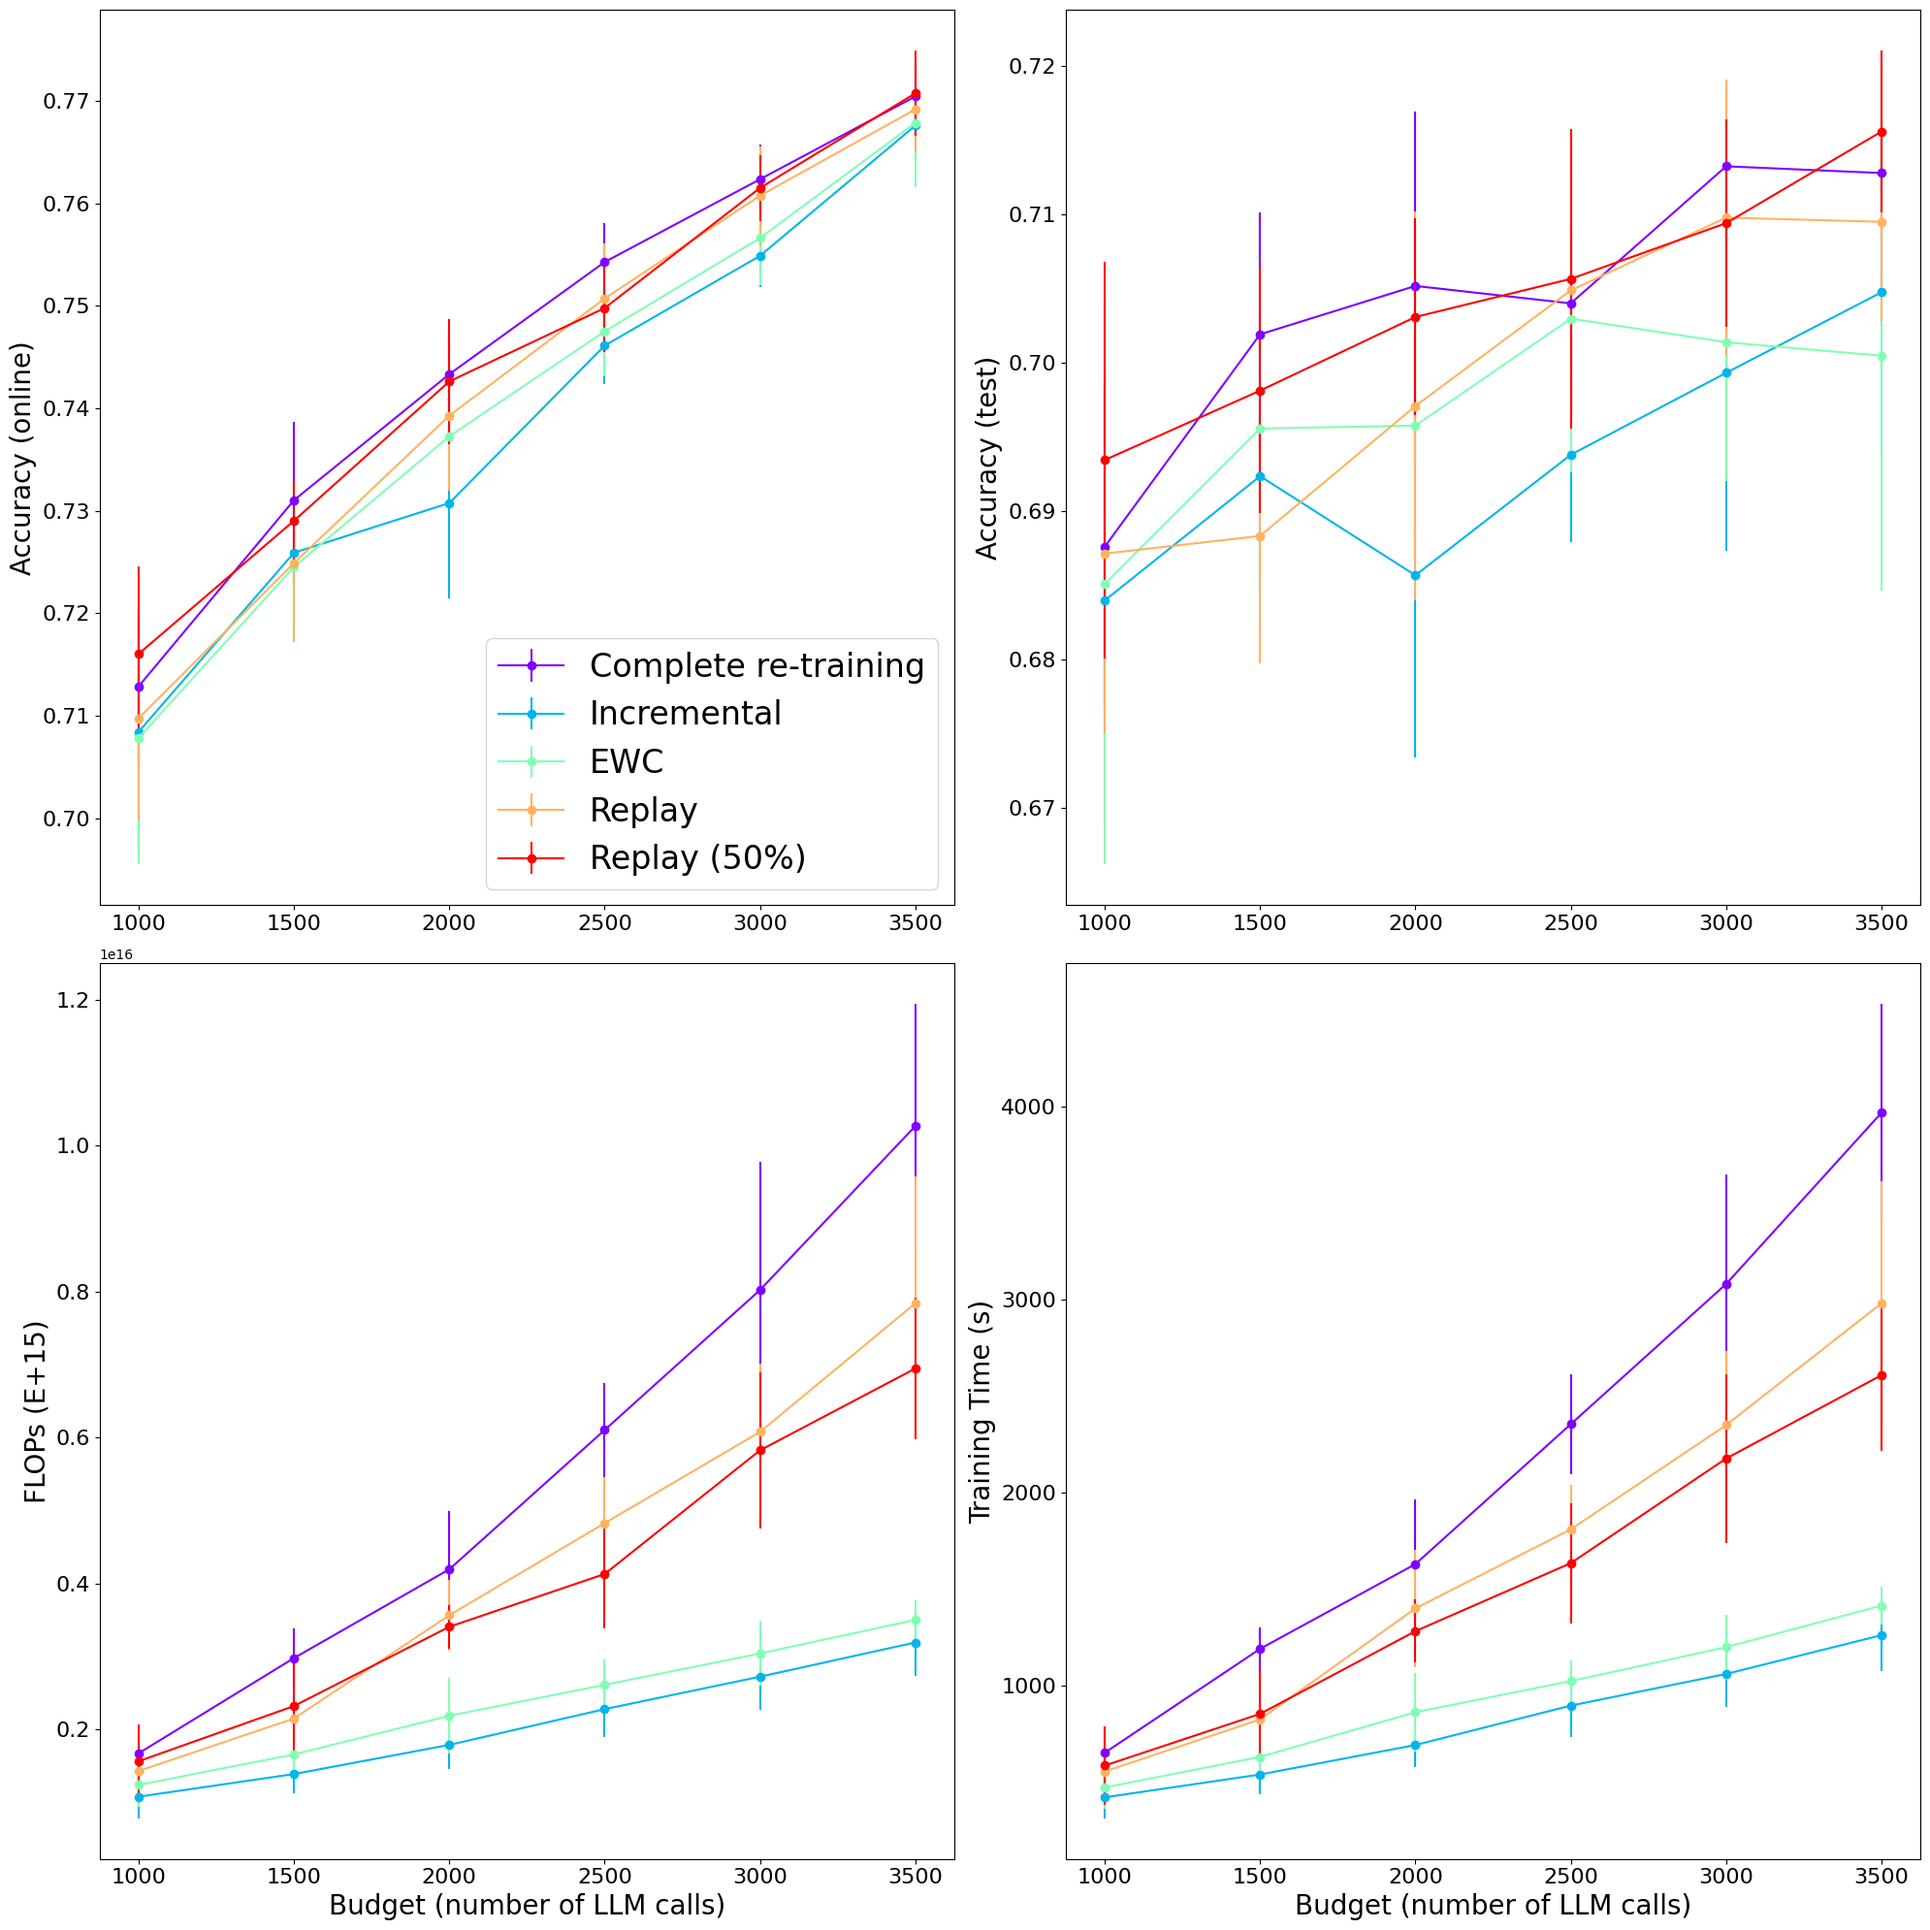
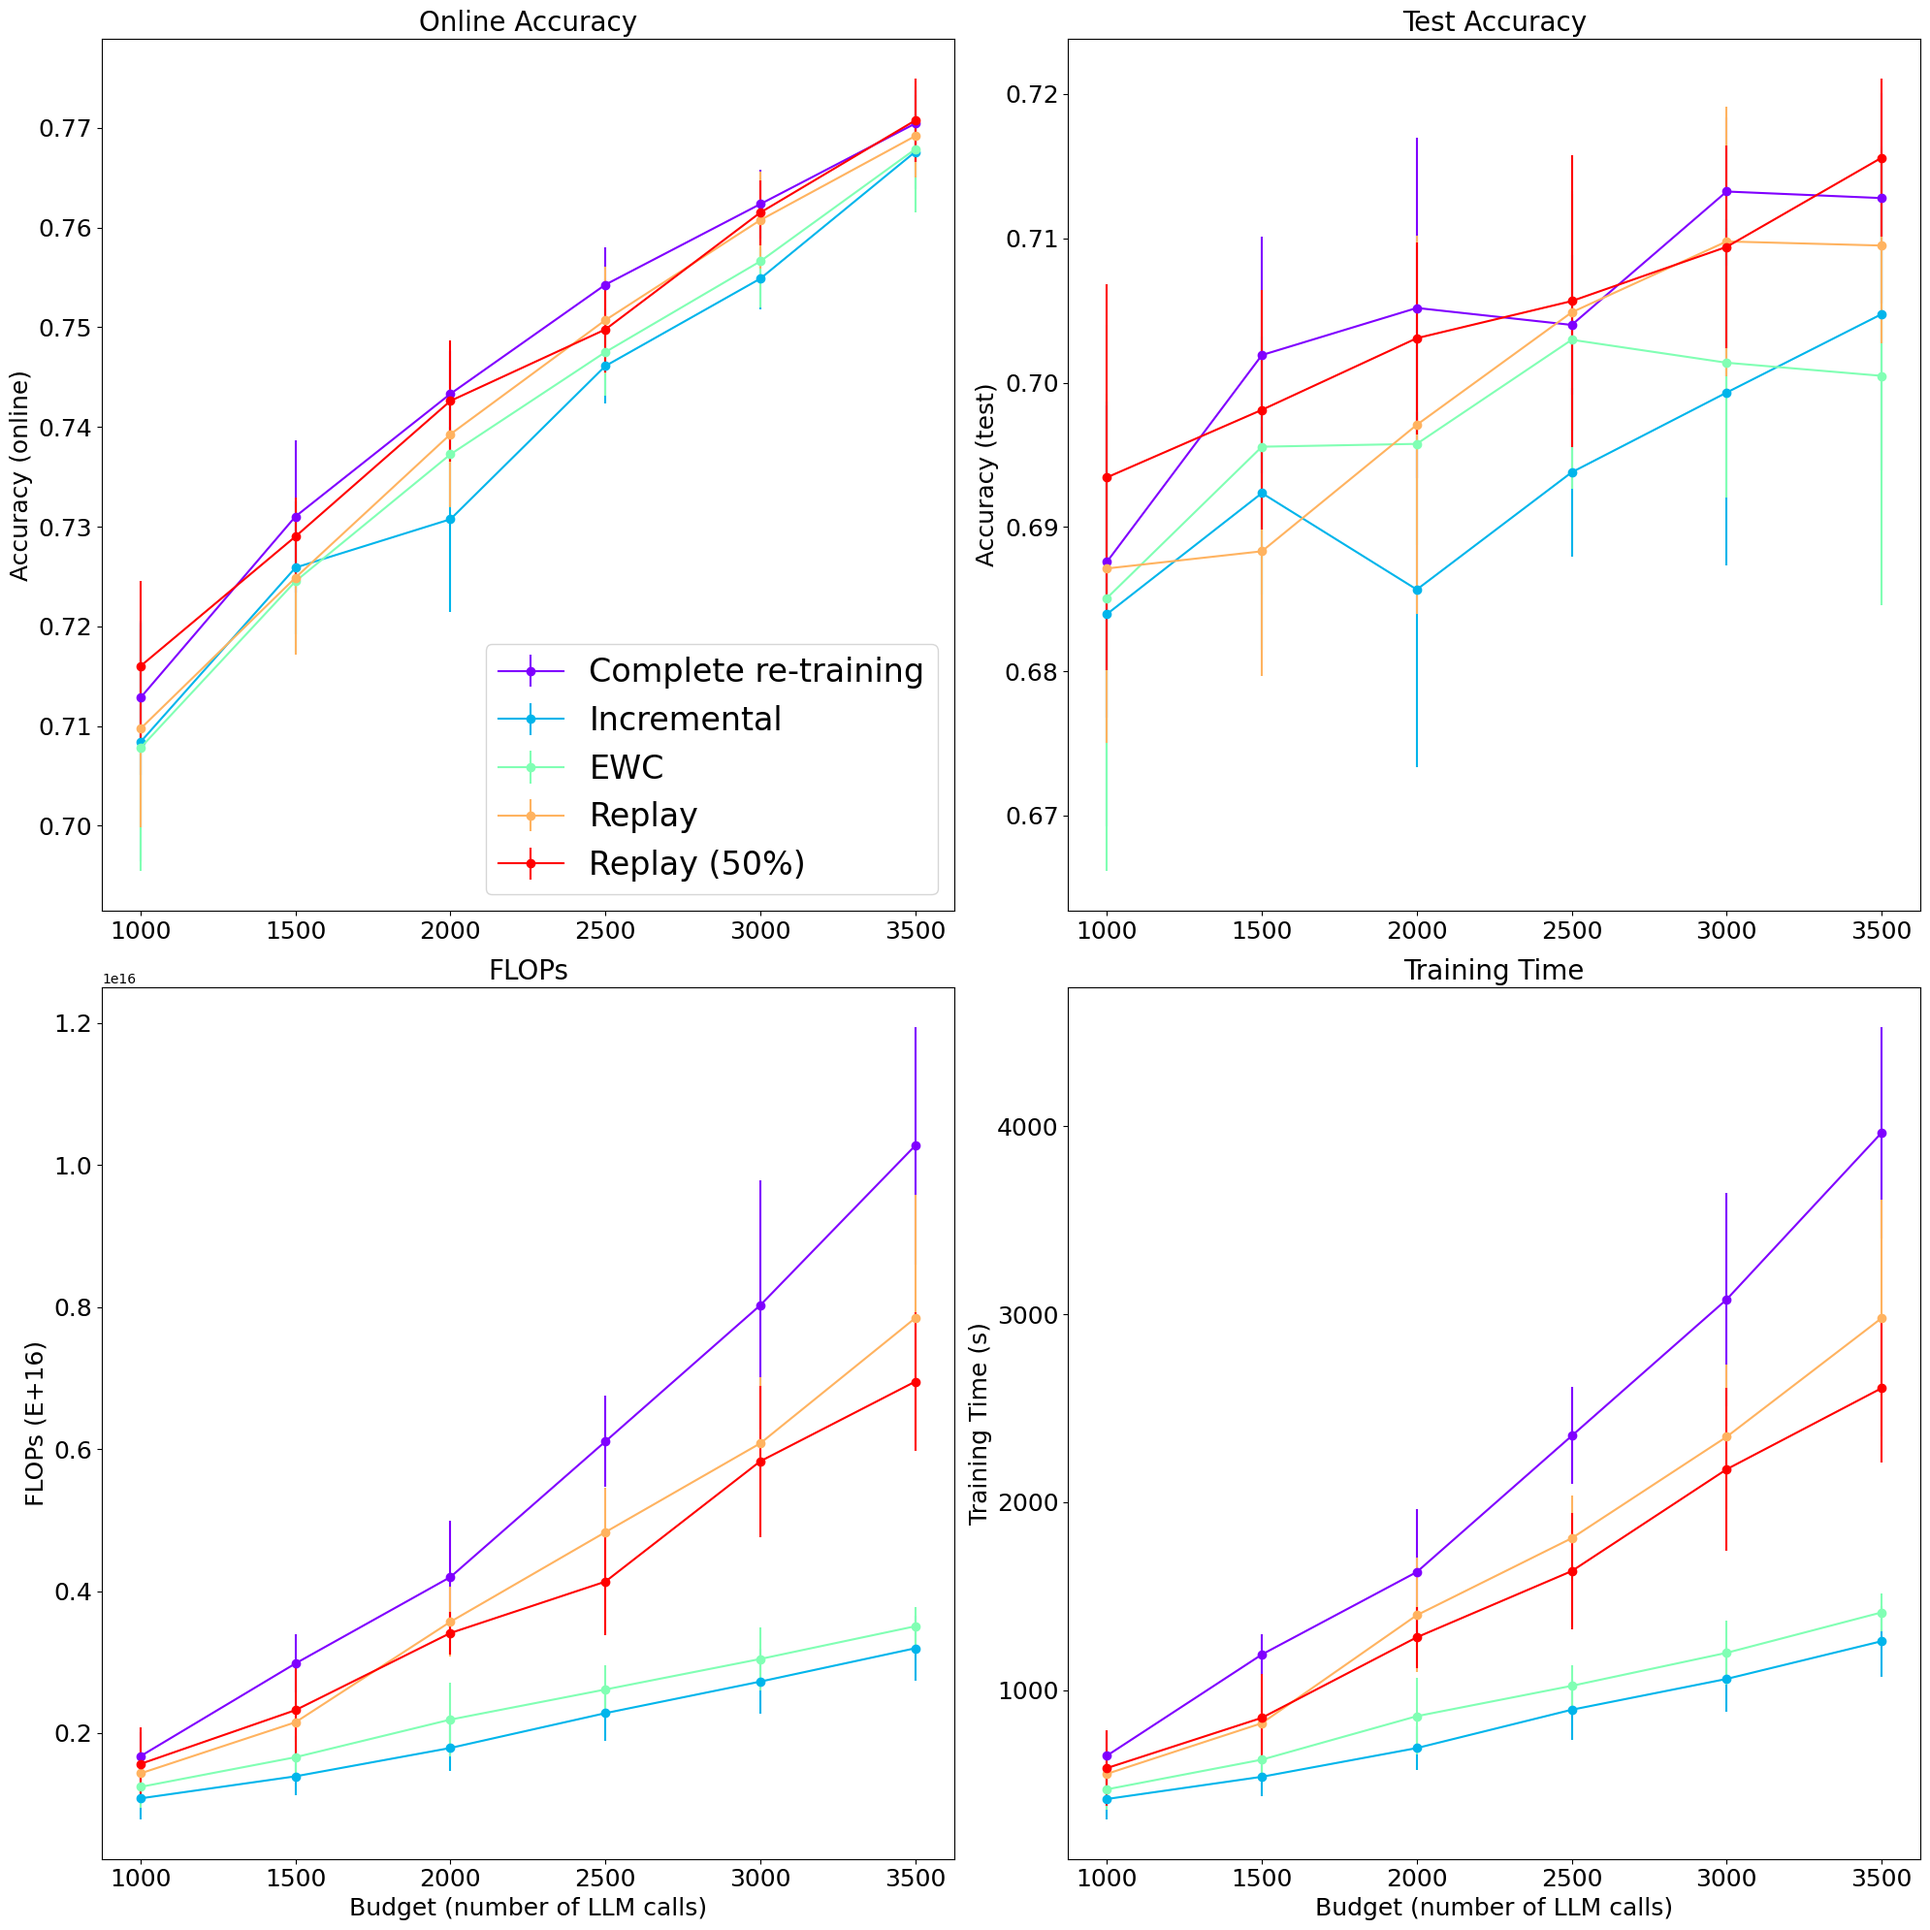
updated plots

diff --git a/results/scripts/analyse_complete.py b/results/scripts/analyse_complete.py
@@ -85,17 +85,16 @@ for condition_name, condition in conditions.items():
             'total_time_std': time_std
         }
 
+metrics = ['online', 'test', 'total_flops', 'total_time']
+y_labels = ['Accuracy (online)', 'Accuracy (test)', 'FLOPs (E+16)', 'Training Time (s)']
+titles = ['Online Accuracy', 'Test Accuracy', 'FLOPs', 'Training Time']
+
 # Function to create individual strategy plots
 def create_strategy_plot(strategy):
     fig, axs = plt.subplots(2, 2, figsize=(20, 20))
     colors = plt.cm.rainbow(np.linspace(0, 1, len(conditions)))
     
-    for i, (plot_metric, title) in enumerate([
-        ('online', f'Accuracy (online)'),
-        ('test', f'Accuracy (test)'),
-        ('total_flops', f'FLOPs (E+15)'),
-        ('total_time', f'Training Time (s)')
-    ]):
+    for i, (plot_metric, y_label, title) in enumerate(zip(metrics, y_labels, titles)):
         ax = axs[i // 2, i % 2]
         for j, condition_name in enumerate(conditions):
             data = aggregated_data[condition_name][strategy]
@@ -103,13 +102,13 @@ def create_strategy_plot(strategy):
                         yerr=data[f'{plot_metric}_std'], 
                         fmt='-o', capsize=0, label=condition_name, color=colors[j])
         
-        # ax.set_title(f"{title}", fontsize=16)
+        ax.set_title(f"{title}", fontsize=20)
         if i>=2:
-            ax.set_xlabel('Budget (number of LLM calls)', fontsize=20)
-        ax.set_ylabel(title, fontsize=20)
+            ax.set_xlabel('Budget (number of LLM calls)', fontsize=18)
+        ax.set_ylabel(y_label, fontsize=18)
         if plot_metric=='online':
             ax.legend(fontsize=24, loc='lower right')
-        ax.tick_params(axis='both', which='major', labelsize=16)
+        ax.tick_params(axis='both', which='major', labelsize=18)
         # ax.grid(True, linestyle='--', alpha=0.7)
     
     plt.tight_layout()
@@ -138,24 +137,21 @@ fig, axs = plt.subplots(2, 2, figsize=(20, 20))
 
 colors = plt.cm.rainbow(np.linspace(0, 1, len(conditions)))
 
-metrics = ['online', 'test', 'total_flops', 'total_time']
-titles = ['Accuracy (online)', 'Accuracy (test)', 'FLOPs (E+15)', 'Training Time (s)']
-
-for i, (metric, title) in enumerate(zip(metrics, titles)):
+for i, (metric, y_label, title) in enumerate(zip(metrics, y_labels, titles)):
     ax = axs[i // 2, i % 2]
     for j, condition_name in enumerate(conditions):
         ax.errorbar(budgets, averaged_data[condition_name][metric], 
                     yerr=averaged_data[condition_name][f'{metric}_std'], 
                     fmt='-o', capsize=0, label=condition_name, color=colors[j])
 
-    # ax.set_title(f"{title}", fontsize=16)
+    ax.set_title(f"{title}", fontsize=20)
     if i>=2:
         ax.set_xlabel('Budget (number of LLM calls)', fontsize=20)
-    ax.set_ylabel(title, fontsize=20)
+    ax.set_ylabel(y_label, fontsize=18)
     if metric=='online':
         ax.legend(fontsize=24, loc='lower right')
 
-    ax.tick_params(axis='both', which='major', labelsize=16)
+    ax.tick_params(axis='both', which='major', labelsize=18)
 
 plt.tight_layout()
 # Save the overall comparison figure

diff --git a/results/scripts/analyse_datasets.py b/results/scripts/analyse_datasets.py
@@ -85,6 +85,9 @@ for dataset in datasets:
                 axis=0
             )
 
+metrics = ['online', 'test', 'total_flops', 'total_time']
+y_labels = ['Accuracy (online)', 'Accuracy (test)', 'FLOPs (E+16)', 'Training Time (s)']
+
 # Function to create plots for each metric across all datasets
 def create_metric_plots(metric, ylabel):
     fig, axs = plt.subplots(2, 2, figsize=(20, 20))
@@ -115,19 +118,19 @@ def create_metric_plots(metric, ylabel):
             
             ax.errorbar(budgets[:len(data)], data, yerr=std, fmt='-o', capsize=0, label=condition_name, color=colors[j])
         
-        ax.set_title(f"{dataset.upper()}", fontsize=16)
-        ax.set_xlabel('Budget (number of LLM calls)', fontsize=14)
-        ax.set_ylabel(ylabel, fontsize=14)
-        ax.legend(fontsize=10)
-        ax.tick_params(axis='both', which='major', labelsize=12)
-        ax.grid(True, linestyle='--', alpha=0.7)
+        ax.set_title(f"{dataset.upper()}", fontsize=20)
+        if i>=2:
+            ax.set_xlabel('Budget (number of LLM calls)', fontsize=18)
+        if i%2==0:
+            ax.set_ylabel(ylabel, fontsize=18)
+        if i==0:
+            ax.legend(fontsize=24, loc='best')
+        ax.tick_params(axis='both', which='major', labelsize=18)
+        # ax.grid(True, linestyle='--', alpha=0.7)
     
     plt.tight_layout()
-    plt.savefig(f'results/{metric}_comparison_all_datasets.png', bbox_inches='tight')
+    plt.savefig(f'results/plots/metrics/b1_{metric}_comparison_all_datasets.png', bbox_inches='tight')
     plt.close()
 
-# Create and save plots for each metric
-create_metric_plots('online', 'Accuracy (online)')
-create_metric_plots('test', 'Accuracy (test)')
-create_metric_plots('total_flops', 'FLOPS')
-create_metric_plots('total_time', 'Time (seconds)')
+for metric, ylabel in zip(metrics, y_labels):
+    create_metric_plots(metric, ylabel)
